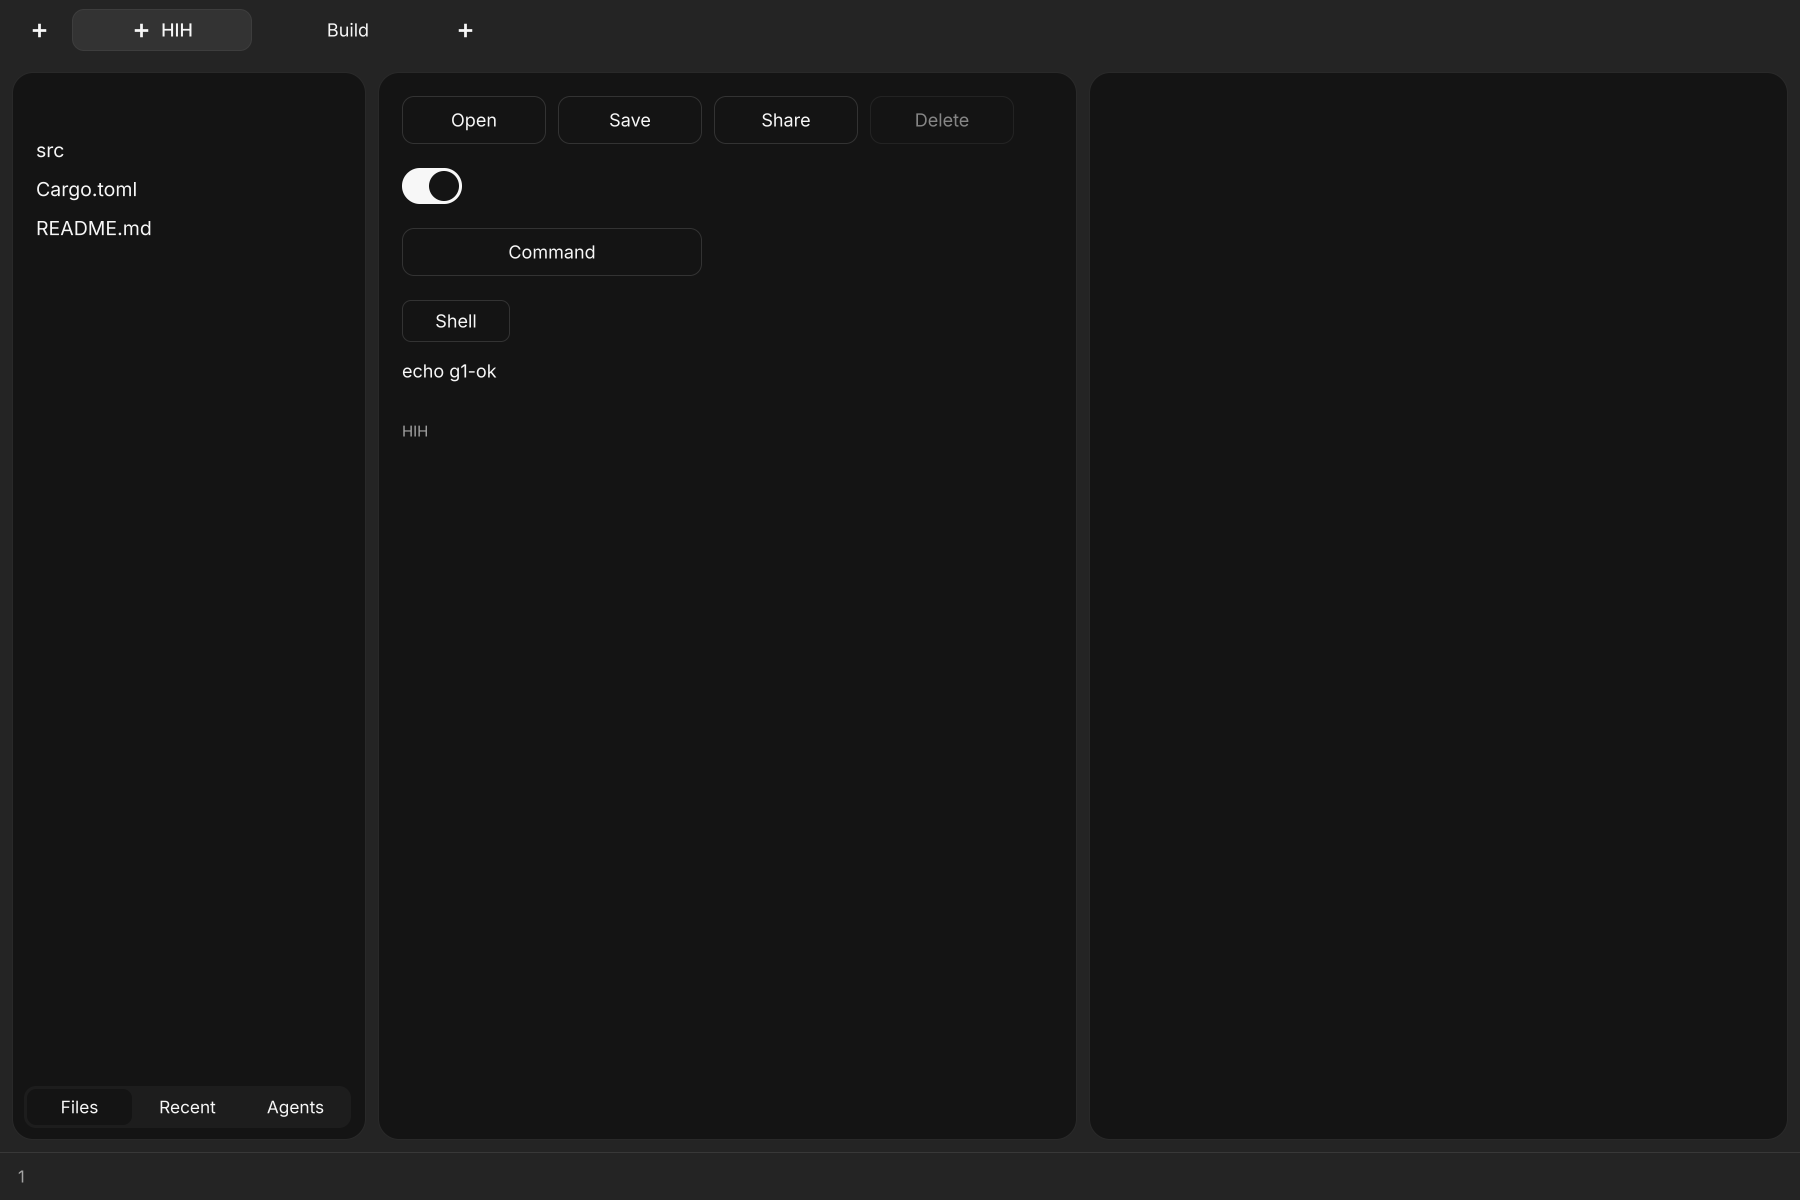
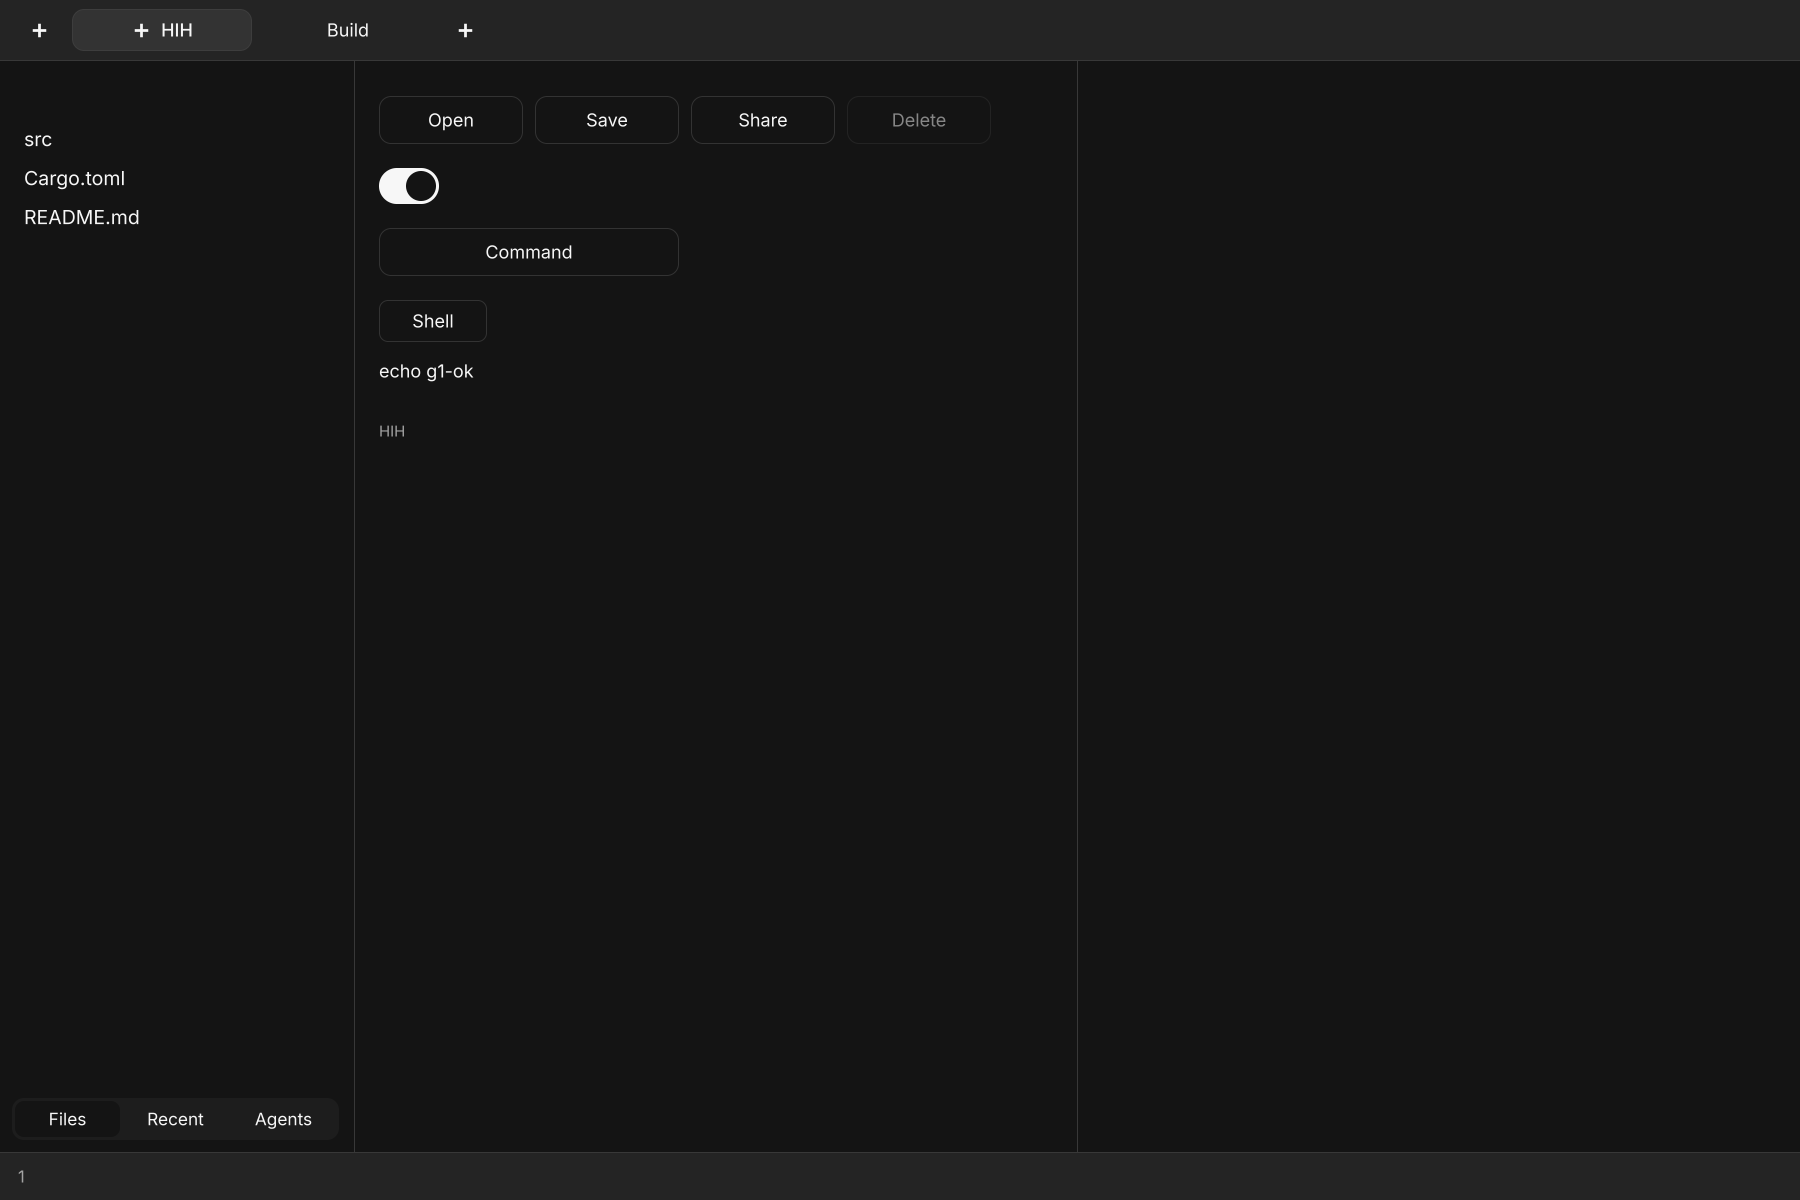
Gates: flush panes, square corners and one-pixel dividers
Marc's decision of 2026-11-17 ("R1 flush", in the design rulebook's last
section): panes and panels sit edge to edge with one-device-pixel border
dividers, no gaps and no pane radius; only the window keeps its radius, and
pane padding 12 stays. The expected values change with it:

- rulebook-tokens.json: pane gap 0, margin 0, radius 0 (were 8, 8, 14), and
  a divider of one device pixel; radius_xl stays in the table, unused.
- Design gate: the pane's border check now reads the divider under the title
  bar (border over the frame, exactly one row); a radius of 0 is read at the
  corner pixel. New planted fault pane-rounded (the old 14 px corners) is
  caught by pane-radius: 12 and 19 px against 0 at scales 1 and 1.5.
- The synthetic reference window draws flush panes; fixtures regenerated.
- Token match: no gap, margin or pane radius token is left to compare.
- G1's grid origin (terminal-pane/expected.py): x is the pane padding, y the
  title bar, its divider and the padding.
- C5: one divider row between panes, no pane edge; the pixel pane finder
  tells the divider (border over the frame) from a pane's own hairline.
- Q4: the meta row ends the pane padding inside the window's edge.
- Wayland check: the lower pane reaches the status line; its reader starts
  at 19 % of the width (243 px), right of the tools panel's divider and left
  of the flush pane's text at 249 px; the synthetic default window is flush.

diff --git a/scripts/window-chrome/gate-design-tokens.py b/scripts/window-chrome/gate-design-tokens.py
@@ -68,6 +68,7 @@ FAULT = arg("--fault")
 FAULTS = {
     "tab-too-tall": "tab-height",
     "loose-literal": "loose-numbers",
+    "pane-rounded": "pane-radius",  # the panes drawn with the old 14 px corners
     "palette-row-short": "palette-row-height",  # G3: a palette row 2 px short (--floating)
     "palette-text-big": "palette-row-cap-height",  # G3: palette row text 2 px too large (--floating)
     "card-padding": "settings-card-padding-x",  # G4: every card's text 2 px too far right (--settings)
@@ -580,19 +581,21 @@ def window_checks(win, e):
             chrome["pane_gap"]["device"],
             between,
         )
-        y_mid = pane[1] + pane[3] // 2
-        left = pane[0]
-        edge = tuple(int(v) for v in a[y_mid, left])
+        # Flush panes have no border of their own: the divider under the title bar is one device pixel of the
+        # border colour over the frame, with the title bar's frame colour above it and the pane's fill below.
+        x_mid = pane[0] + pane[2] // 2
+        divider = tuple(int(v) for v in a[pane[1] - 1, x_mid])
         want = tuple(
-            int(e["colours"]["border_over_background"]["hex"][i : i + 2], 16)
+            int(e["colours"]["border_over_frame"]["hex"][i : i + 2], 16)
             for i in (1, 3, 5)
         )
         tolerance = chrome["pane_border_alpha"]["tolerance_levels"]
+        one_row = pixels.cdist(a[pane[1] - 2, x_mid], frame) <= 2 and pixels.cdist(a[pane[1], x_mid], a[pane[1] - 1, x_mid]) > 2
         record(
             "pane-border-alpha",
-            all(abs(p - q) <= tolerance for p, q in zip(edge, want)),
-            f"{chrome['pane_border_alpha']['value']:.3f} (rgb {want})",
-            f"rgb {edge}",
+            one_row and all(abs(p - q) <= tolerance for p, q in zip(divider, want)),
+            f"{chrome['pane_border_alpha']['value']:.3f} (rgb {want}), one row",
+            f"rgb {divider}, {'one row' if one_row else 'not one row'}",
         )
         radius = pane_radius(a, pane, frame, e)
         record(
@@ -619,13 +622,20 @@ def e_grey(e, role):
 
 
 def pane_radius(a, pane, frame, e):
-    """A circle fitted to the pane's top-left corner. The border sits inside the pane's box over the fill, so the fill
-    is fitted (the border row and column count as outside it) and the border's width is added back."""
+    """The pane's corner radius. A square corner (the flush panes) is read at the corner pixel itself: 0 when it has
+    the pane's fill, else the fill's distance along the top edge from the corner. A rounded one is a circle fitted to
+    the top-left corner; the border sits inside the pane's box over the fill, so the fill is fitted (the border row
+    and column count as outside it) and the border's width is added back."""
     import numpy as np
 
     x, y, w, h = pane
     y_mid = y + h // 2
     fill = tuple(int(v) for v in a[y_mid, x + 20])
+    if e["chrome"]["pane_radius"]["device"] == 0:
+        inset = 0
+        while inset < w // 2 and pixels.cdist(a[y, x + inset], fill) > 2:
+            inset += 1
+        return float(inset)
     k = int(np.argmax([abs(s - o) for s, o in zip(fill, frame)]))
     cov = np.clip((a[..., k] - frame[k]) / (fill[k] - frame[k]), 0, 1)
     radius = e["chrome"]["pane_radius"]["device"]
@@ -1227,7 +1237,7 @@ def make_window(scale):
 
         return SimFloatingWindow(scale, THEME, FAULT)
     if SIMULATE:
-        return SimWindow(scale, THEME, FAULT if FAULT in ("tab-too-tall",) else None)
+        return SimWindow(scale, THEME, FAULT if FAULT in ("tab-too-tall", "pane-rounded") else None)
     return RealWindow(scale, WORK, APP, CONFIG, FAULT, KEEP)
 
 

diff --git a/scripts/terminal-pane/check_wayland.py b/scripts/terminal-pane/check_wayland.py
@@ -179,9 +179,10 @@ INPUT_MIN_INK_PIXELS = (
     30  # a chevron alone is about 14; a caret block or placeholder text is far more
 )
 INK_SEARCH_COLUMNS = (
-    0.2,
+    0.19,
     0.95,
-)  # the share of the window's width the hairline and bands are read across
+)  # the share of the window's width the hairline and bands are read across: from 243 px at 1280, right of the tools
+# panel and its divider (237) and left of the flush pane's text (249)
 
 
 def tokens():
@@ -189,10 +190,11 @@ def tokens():
 
 
 def inside_bottom(shot):
-    """The lower pane's inside bottom row: the window height minus the status line, the pane margin and its border."""
+    """The row under the lower pane's inside: the window height minus the status line and the pane margin. Panes are
+    flush (rulebook, "R1 flush"): the margin is 0 and a pane has no border of its own."""
     book = tokens()
     chrome = book["heights"]["h_status"]["px"] + book["pane"]["margin"]["px"]
-    return shot.height - chrome * SCALE - book["pane"]["border_width"]["device_px"]
+    return shot.height - chrome * SCALE
 
 
 def hairline_colour(background):
@@ -433,11 +435,10 @@ def command_draw(arguments):
 
 APP_ID = "clanky"  # the window's application id: the desktop file's StartupWMClass and the icon name
 DEFAULT_WINDOW_SIZE = (1280, 720)
-PANE_LEFT, PANE_RIGHT = (
-    245,
-    1271,
-)  # the default window's panes beside the tools panel, at 1280 px wide
-PANE_TOPS = (49, 369)  # logical px: the upper and lower pane's top edge
+# The default window's flush panes beside the tools panel (236 px and its divider), at 1280 x 720: the title bar
+# (40) and its divider above, the status line (32) below, one divider row between the two 323 px panes.
+PANE_LEFT, PANE_RIGHT = (237, 1279)
+PANE_TOPS = (41, 365)  # logical px: the upper and lower pane's top edge
 FRAME_GREY = 29
 
 
@@ -454,7 +455,7 @@ def command_draw_default(arguments):
     )
     ascender = check_cells.Font(SCALE).ascender
     bottom = inside_bottom(Image_shot(image, background))
-    pane_bottoms = (PANE_TOPS[1] - 10, bottom + 1)
+    pane_bottoms = (PANE_TOPS[1] - 2, bottom - 1)
     line = tuple(round(c) for c in hairline_colour(background))
     for top, end in zip(PANE_TOPS, pane_bottoms):
         draw.rectangle((PANE_LEFT, top, PANE_RIGHT, end), fill=background)
@@ -483,16 +484,16 @@ def command_draw_default(arguments):
     input_top = hair + 44
     typed = arguments.stage == "typed" or arguments.fault == "typed-not-sent"
     draw.polygon(
-        [(262, input_top + 4), (268, input_top + 10), (262, input_top + 16)],
+        [(254, input_top + 4), (260, input_top + 10), (254, input_top + 16)],
         fill=(70, 110, 220),
     )
     if typed:
-        write(f"echo {WORD}", 279, input_top)
+        write(f"echo {WORD}", 271, input_top)
     else:
-        draw.rectangle((279, input_top, 289, input_top + 18), fill=foreground)
+        draw.rectangle((271, input_top, 281, input_top + 18), fill=foreground)
     if arguments.stage == "output" and arguments.fault != "typed-not-sent":
-        write(f"echo {WORD}", 257, hair - 160)
-        write(WORD, 257, hair - 160 + geometry["line_height"])
+        write(f"echo {WORD}", 249, hair - 160)
+        write(WORD, 249, hair - 160 + geometry["line_height"])
     image.save(arguments.out)
     return 0
 

diff --git a/scripts/window-chrome/draw_chrome_reference.py b/scripts/window-chrome/draw_chrome_reference.py
@@ -270,7 +270,8 @@ class Layout:
             chrome["title_bar_height"]["logical"],
             chrome["status_height"]["logical"],
         )
-        margin, gap = chrome["pane_margin"]["logical"], chrome["pane_gap"]["logical"]
+        # Panes are flush: the panel and the panes sit edge to edge, a one-device-pixel divider between neighbours.
+        hair = 1 / s
         tab_top = (bar_h - self.kind_logical("tab")) / 2
         self.add(
             "icon-button",
@@ -302,17 +303,17 @@ class Layout:
             axis="horizontal",
         )
         self.add("icon-button", "", 296, (bar_h - 28) / 2, 28)
-        top = bar_h + gap
-        pane_h = LOGICAL_H - status_h - margin - top
-        self.panel = box_of(s, margin, top, PANEL_WIDTH, pane_h)
-        left = margin + PANEL_WIDTH + gap
+        top = bar_h + hair
+        pane_h = LOGICAL_H - status_h - top
+        self.panel = box_of(s, 0, top, PANEL_WIDTH, pane_h)
+        left = PANEL_WIDTH + hair
         self.content_left = left
-        pane_w = (LOGICAL_W - left - margin - gap) / 2
+        pane_w = (LOGICAL_W - left - hair) / 2
         self.panes = [
             box_of(s, left, top, pane_w, pane_h),
-            box_of(s, left + pane_w + gap, top, pane_w, pane_h),
+            box_of(s, left + pane_w + hair, top, pane_w, pane_h),
         ]
-        self._build_panel(margin, top, pane_h)
+        self._build_panel(0, top, pane_h)
         for index, label in enumerate(("Open", "Save", "Share", "Delete")):
             self.add(
                 "button",
@@ -632,24 +633,16 @@ def draw_window(
     states = states or {}
     frame, background = theme.rgb["frame"], theme.rgb["background"]
     canvas = Canvas(layout.width, layout.height, frame)
-    for box in layout.panes:
-        canvas.rounded(box, e["chrome"]["pane_radius"]["device"], background)
-        canvas.rounded(
-            box,
-            e["chrome"]["pane_radius"]["device"],
-            theme.border[0],
-            theme.border[1],
-            outline=1,
-        )
+    # Flush panes: square fills edge to edge; the dividers (under the title bar, after the panel, between the panes)
+    # are one device pixel of the border colour over the frame. The planted fault rounds the panes again.
+    radius = 14 * s if layout.fault == "pane-rounded" else e["chrome"]["pane_radius"]["device"]
     panel = layout.panel
-    canvas.rounded(panel, e["chrome"]["pane_radius"]["device"], background)
-    canvas.rounded(
-        panel,
-        e["chrome"]["pane_radius"]["device"],
-        theme.border[0],
-        theme.border[1],
-        outline=1,
-    )
+    canvas.rect(panel, background)
+    for box in layout.panes:
+        canvas.rounded(box, radius, background)
+    canvas.rect([0, panel[1] - 1, layout.width, 1], theme.border[0], theme.border[1])
+    for box in [panel, layout.panes[0]]:
+        canvas.rect([box[0] + box[2], box[1], 1, box[3]], theme.border[0], theme.border[1])
     canvas.rounded(
         layout.tray, e["controls"]["button"]["radius"]["device"], theme.rgb["card"]
     )

diff --git a/scripts/gate-q4-blocks.py b/scripts/gate-q4-blocks.py
@@ -125,6 +125,8 @@ sys.argv = _argv
 q1, gm, t2 = q2.q1, q2.gm, q2.t2
 Fail, require, until, near = q1.Fail, q1.require, q1.until, q1.near
 W, H = 1400, 900
+# The meta row's right end: today's window's pane ends at the window's edge and its blocks pad 18 px [M].
+RIGHT, RIGHT_INSET = W, 18
 BG, LINE_BG, FAIL_LINE, ERR = (17, 17, 17), (41, 41, 41), (116, 72, 65), (236, 138, 124)
 MAG, CYAN, YEL, GRN = (255, 0, 255), (0, 255, 255), (255, 255, 0), (0, 255, 0)
 CW, CH = 9, 26
@@ -144,10 +146,13 @@ if GPUI:
     BG, ERR = _rgb(_theme['background']), _rgb(_theme['err'])
     LINE_BG = _over(BG, _rgb(_theme['foreground']), _block['divider_foreground_alpha']['value'])
     FAIL_LINE = _over(BG, ERR, _block['divider_failed_err_alpha']['value'])
-    # The pane's inside starts under the 40 px title bar, the 8 px margin and its one-pixel edge (the rulebook's
-    # h_title_bar and pane margin): the rows above it are the window's frame.
+    # Panes are flush (rulebook, "R1 flush"): the pane's inside starts under the 40 px title bar and the one-device-pixel
+    # divider below it; the rows above it are the window's frame. The pane reaches the window's right edge, and the
+    # meta row ends the pane padding (12) inside it.
     _tokens = json.loads((q2.REPO / 'scripts/window-chrome/rulebook-tokens.json').read_text())
-    TOP = _tokens['heights']['h_title_bar']['px'] + _tokens['pane']['margin']['px'] + 1
+    TOP = _tokens['heights']['h_title_bar']['px'] + _tokens['pane']['margin']['px'] + _tokens['pane']['divider']['device_px']
+    RIGHT = W - _tokens['pane']['margin']['px']
+    RIGHT_INSET = _tokens['pane']['padding']['px']
 MID = (236 + W) // 2
 E = '\x1b'
 BASE = dict(q1.BASE, theme='dark', theme_dark='graphite-dark')
@@ -328,7 +333,7 @@ def meta_fails(words, x1col, stamps, exit_code, dur):
         bad.add('folder')
     if not any(any(s in w[0] for s in stamps) and (not folder or w[1] > folder[1]) and w[3] < MID for w in words):
         bad.add('time')
-    if not (W - 18 - 10 <= max(w[3] for w in words) <= W - 18 + 3):
+    if not (RIGHT - RIGHT_INSET - 10 <= max(w[3] for w in words) <= RIGHT - RIGHT_INSET + 3):
         bad.add('right edge')
     right = ' '.join(w[0] for w in words if w[1] > MID)
     if exit_code is None:
@@ -356,7 +361,7 @@ def meta_check(im, box, x1col, stamps, exit_code, dur, label):
     require(meta_ok(reads, x1col, stamps, exit_code, dur),
             f'M1 {label} meta row: folder alpha and {"/".join(sorted(stamps))} on the left, '
             f'{"exit " + str(exit_code) + " then " if exit_code else ""}duration'
-            f'{" %.1f-%.1f s" % dur if dur else ""} on the right edge (x 1372-1385) '
+            f'{" %.1f-%.1f s" % dur if dur else ""} on the right edge (x {RIGHT - RIGHT_INSET - 10}-{RIGHT - RIGHT_INSET + 3}) '
             f'(read {[" ".join(f"{w[0]}@{int(w[1])}-{int(w[3])}" for w in sorted(r, key=lambda w: w[1])) for r in reads]!r})')
 
 

diff --git a/scripts/gate-c5-panes.py b/scripts/gate-c5-panes.py
@@ -99,11 +99,21 @@ INPUT_H = 1 + 8 + 32 + 7 + 10  # command input without its text line (command_ba
 EDGE = 0  # today's pane region has no edge of its own
 GPUI = t2.gate_app.override() is not None
 if GPUI:
-    # clanky-gpui: the rulebook's pane gap, padding and edge, and its command input (see the docstring).
+    # clanky-gpui: flush panes, one divider row between them and no edge of their own, the rulebook's padding, and
+    # its command input (see the docstring).
     _tokens = json.loads((Path(__file__).with_name('window-chrome') / 'rulebook-tokens.json').read_text())
-    GAP, PAD = _tokens['pane']['gap']['px'], _tokens['pane']['padding']['px']
+    GAP, PAD = _tokens['pane']['divider']['device_px'], _tokens['pane']['padding']['px']
     INPUT_H = 1 + 8 + _tokens['heights']['h_chip']['px'] + 8 + PAD
-    EDGE = _tokens['pane']['border_width']['device_px']
+    EDGE = 0
+    # The divider between flush panes: the theme's border over the window's frame (the card moved toward the
+    # foreground), the default Graphite dark theme's values from the token table.
+    _dark = _tokens['themes']['graphite-dark']
+    _hex = lambda h: tuple(int(h[i:i + 2], 16) for i in (1, 3, 5))
+    _mix = lambda a, b, t: tuple(x + (y - x) * t for x, y in zip(a, b))
+    _frame = _mix(_hex(_dark['card']['hex']), _hex(_dark['foreground']['hex']), _dark['frame']['mix_card_toward_foreground'])
+    DIVIDER = tuple(round(v) for v in _mix(_frame, _hex(_dark['border']['over']), _dark['border']['alpha']))
+else:
+    DIVIDER = None
 MAG = (255, 0, 255)
 PROG = r'''#!/usr/bin/python3 -I
 # c5prog: alternate screen, cursor hidden; magenta cells at (1,1) and at the last cell; quits on "q".
@@ -226,9 +236,17 @@ def pixel_panes(win, name):
         if w >= 200 and h >= 20 and (lab[sl] == i).sum() >= .6 * w * h:
             parts.append((xs.start, ys.start, xs.stop - 1, ys.stop - 1))
     out = []
+
+    def divider_between(o, r):
+        # flush panes: the rows between two parts are the panes' divider, not a pane's own hairline
+        x = (r[0] + r[2]) // 2
+        return DIVIDER is not None and all(
+            np.abs(a[y, x] - np.array(DIVIDER)).max() <= 4 for y in range(o[3] + 1, r[1]))
+
     for r in sorted(parts, key=lambda r: (r[1], r[0])):
         # a pane's own hairline (the command input's, 1-3 rows) splits its region; the parts are one pane
-        j = next((k for k, o in enumerate(out) if near(o[0], r[0]) and near(o[2], r[2]) and 0 < r[1] - o[3] <= 4),
+        j = next((k for k, o in enumerate(out) if near(o[0], r[0]) and near(o[2], r[2]) and 0 < r[1] - o[3] <= 4
+                  and not divider_between(o, r)),
                  None)
         if j is None:
             out.append(r)

diff --git a/scripts/terminal-pane/expected.py b/scripts/terminal-pane/expected.py
@@ -23,11 +23,11 @@ FONT_SIZE_LOGICAL_PX = 16
 LINE_HEIGHT_FACTOR = 1.2
 # Pane padding on every side, in logical pixels: the design rulebook's token table.
 PANE_PADDING_LOGICAL_PX = 12
-# The window around the pane, from the design rulebook's token table: the title bar above, the pane margin around
-# the pane, and the pane's border of one device pixel. The tools panel is off in the gate's configs.
+# The window around the pane, from the design rulebook: the title bar above, then the one-device-pixel divider under
+# it. Panes are flush (rulebook 2026-11-17, "R1 flush"): no margin around the pane and no border of its own, so the
+# pane starts at the window's left edge. The tools panel is off in the gate's configs.
 TITLE_BAR_LOGICAL_PX = 40
-PANE_MARGIN_LOGICAL_PX = 8
-PANE_BORDER_DEVICE_PX = 1
+DIVIDER_DEVICE_PX = 1
 # Colours: the Graphite dark theme file the window is built with (its default theme).
 THEME_FILE = REPO_ROOT / "assets/themes/graphite-dark.json"
 
@@ -111,8 +111,8 @@ def build(scale):
     line_height = round_half_up(FONT_SIZE_LOGICAL_PX * LINE_HEIGHT_FACTOR * scale)
     ascender = load_ascender(scale)
     padding = math.floor(PANE_PADDING_LOGICAL_PX * scale)
-    x0 = math.floor(PANE_MARGIN_LOGICAL_PX * scale) + PANE_BORDER_DEVICE_PX + padding
-    y0 = math.floor((TITLE_BAR_LOGICAL_PX + PANE_MARGIN_LOGICAL_PX) * scale) + PANE_BORDER_DEVICE_PX + padding
+    x0 = padding
+    y0 = math.floor(TITLE_BAR_LOGICAL_PX * scale) + DIVIDER_DEVICE_PX + padding
     cells = []
     for row, items in enumerate(fixture_rows(theme)):
         column = 0

diff --git a/scripts/window-chrome/check_tokens_match.py b/scripts/window-chrome/check_tokens_match.py
@@ -81,7 +81,6 @@ def rulebook_pairs(book):
         ("radius_sm", "SMALL"),
         ("radius_md", "MEDIUM"),
         ("radius_lg", "LARGE"),
-        ("radius_xl", "PANE"),
         ("window", "WINDOW"),
     ):
         pairs.append(
@@ -155,10 +154,8 @@ def rulebook_pairs(book):
     ]
     pane = book["pane"]
     pairs += [
-        ("pane gap", pane["gap"]["px"], pane["gap"]["src"], "PANE_GAP"),
+        # Panes are flush: no gap, margin or radius token is left to compare; the divider is a hairline.
         ("pane padding", pane["padding"]["px"], pane["padding"]["src"], "PANE_PADDING"),
-        # The token module has one constant for the gap between panes and the window's edge too.
-        ("pane margin", pane["margin"]["px"], pane["margin"]["src"], "PANE_GAP"),
         (
             "side column width",
             pane["side_column_width"]["px"],

diff --git a/scripts/window-chrome/expected.py b/scripts/window-chrome/expected.py
@@ -140,12 +140,17 @@ def theme_colours(theme):
         "alpha": theme["input"]["alpha"],
         "src": theme["input"]["src"],
     }
+    frame = blend(card, foreground, theme["frame"]["mix_card_toward_foreground"])
     colours["frame"] = {
-        "hex": rgb_to_hex(
-            blend(card, foreground, theme["frame"]["mix_card_toward_foreground"])
-        ),
+        "hex": rgb_to_hex(frame),
         "rule": "card moved toward foreground",
         "src": theme["frame"]["src"],
+    }
+    # The dividers between flush neighbours lie over the window's frame colour.
+    colours["border_over_frame"] = {
+        "hex": rgb_to_hex(blend(frame, hex_to_rgb(border["over"]), border["alpha"])),
+        "rule": f"frame with {border['over']} at {border['alpha']:.0%}",
+        "src": border["src"],
     }
     return colours
 

diff --git a/scripts/window-chrome/simulated_window.py b/scripts/window-chrome/simulated_window.py
@@ -26,6 +26,7 @@ FAULTS = (
     "click-takes-focus",
     "active-tab-grows",
     "selected-segment-hover",
+    "pane-rounded",
 )
 FOCUS_ON_CLICK = (
     "field",
